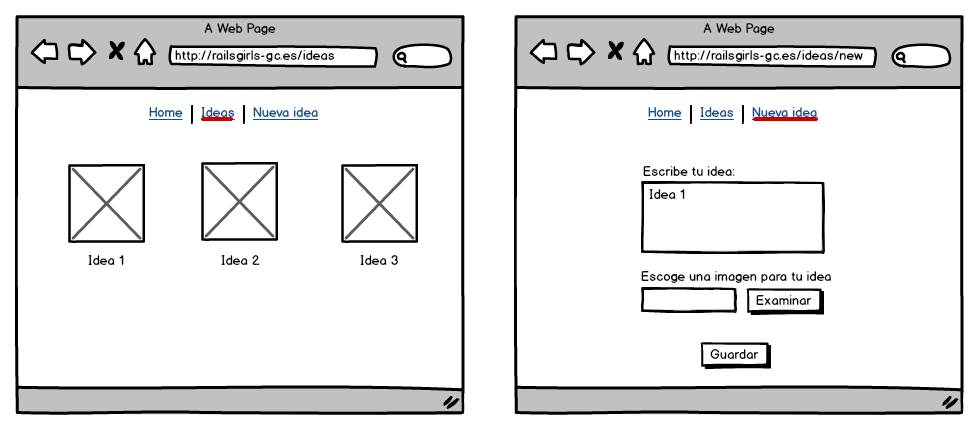
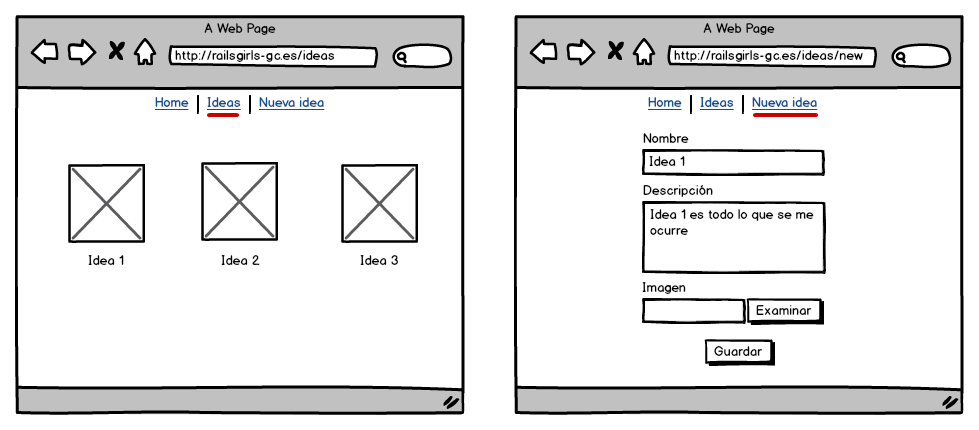
Hace ligeras mejoras en las diapositivas

diff --git a/slides/ex_0_1.html b/slides/ex_0_1.html
@@ -47,7 +47,6 @@
     <section class="slide">
       <h2>Bentobox</h2>
       <img src="images/ex_0_1/bentobox.png"/>
-      <!-- Ejemplo venta de entradas. Imagen que lo represente. <img style="float: right" src="images/first_web_server.jpg"/>-->
     </section>
 
     <section class="slide">
@@ -59,14 +58,17 @@
         <li><h3>4. HTML</h3></li>
         <li><h3>5. MongoDB</h3></li>
       </ul>
-      <ul style="float: left; margin-left: 33%; list-style: none;">
+      <ul style="float: left; margin-left: 15%; list-style: none;">
         <li><h3>6. Apache</h3></li>
         <li><h3>7. CSS</h3></li>
         <li><h3>8. Django</h3></li>
         <li><h3>9. MySQL</h3></li>
         <li><h3>10. Nginx</h3></li>
       </ul>
-      <p style="float: right; margin-left: 66%;">¡¡ 5 minutos !!</p>
+      <div>
+        <img src="images/ex_0_1/bentobox_food.png"/>
+        <p style="float: right;">¡¡ 5 minutos !!</p>
+      </div>
     </section>
 
     <section class="slide">
@@ -117,13 +119,13 @@
       <h2>¿Qué necesitamos para empezar?</h2>
       <img style="float: right" src="images/ex_0_1/laptop.png"/>
       <h3>Ordenador</h3>
-      <p>Con el entorno ya instalado. En este caso, la máquina virtual.</p>
+      <p>Con el entorno ya instalado, en este caso, la máquina virtual.</p>
       <img style="float: right" src="images/ex_0_1/sublimetext.jpg"/>
       <h3>Editor de Texto</h3>
-      <p>Sublime Text, Vim, Emacs y Gedit son ejemplos de editores de texto que se pueden usar para escribir código y editar archivos.</p>
+      <p>Sublime Text, Vim, Emacs y Gedit son ejemplos de editores de texto que se pueden usar para escribir código y editar ficheros.</p>
       <img style="float: right" src="images/ex_0_1/terminal.png"/>
       <h3>Terminal</h3>
-      <p>Es el lugar donde se inicia el servidor de Rails y se ejecutan los comandos.</p>
+      <p>Donde se inicia el servidor de Rails y se ejecutan los comandos.</p>
       <img style="float: right" src="images/ex_0_1/browser.jpg"/>
       <h3>Navegador web</h3>
       <p>(Firefox, Safari, Chrome) para vizualizar la aplicación.</p>
@@ -131,88 +133,139 @@
 
     <section class="slide">
       <h2>Aplicación «Ideas»</h2>
-      <p>Empezaremos por algo fácil e iremos aumentando la complejidad.</p>
-      <p>Aplicación donde podamos anotar nuestras ideas y asociarles imágenes.</p>
-      <p>Idea: nombre, descripción e imagen.</p>
-      <h3>Mockup</h3>
-      <img src="images/ex_0_1/mockup.png"/>
+      <ul>
+        <li>Empezaremos por algo fácil e iremos aumentando la complejidad.</li>
+        <li>Aplicación donde podamos anotar nuestras ideas y asociarles imágenes.</li>
+        <li>Una «idea» se compone de los campos «nombre», «descripción» e «imagen»:
+          <ul>
+            <li>name: string</li><li>description:text</li><li>picture: string</li>
+          </ul>
+        </li>
+        <li>Mockups: balsamiq.com, gomockingbird.com
+          <img src="images/ex_0_1/mockup.png"/>
+        </li>
+      </ul>
     </section>
 
     <section class="slide">
-      <h2>Creamos nuestro primer proyecto Rails</h2>
+      <h2>Crear una aplicación Rails</h2>
+      <p>Lo primero que tenemos que hacer es crear una nueva aplicación</p>
       <ol>
         <li>
-          <p>Abrimos el terminal y ejecutamos lo siguiente:</p>
+          <p>Abrimos el terminal y creamos un directorio para colocar nuestras aplicaciones:</p>
           <textarea id="code" name="code" class="code" mode="ruby" style="display: none;">
             mkdir projects 
             cd projects
           </textarea>
         </li>
         <li>
-          <p>Creamos el proyecto «railsgirls»</p>
+          <p>Creamos la aplicación con el nombre «railsgirls»</p>
           <textarea id="code" name="code" class="code" mode="ruby" style="display: none;">
             rails new railsgirls
-          </textarea>
-          <br/>
-          <p>Esto es lo que ocurre:</p>
-          <textarea id="code" name="code" class="code" mode="ruby" style="display: none; font-size: 10pt;">
-            create  README.rdoc
-            create  Rakefile
-            create  config.ru
-            create  .gitignore
-            create  Gemfile
-            create  app
-            create  app/assets/javascripts/application.js
-            create  app/assets/stylesheets/application.css
-            create  app/controllers/application_controller.rb
-            create  app/helpers/application_helper.rb
-            create  app/views/layouts/application.html.erb
-                  ...
-            create  config
-            create  config/routes.rb
-            create  config/application.rb
-            create  config/environment.rb
-                  ...
-            create  config/initializers
-                  ...
-            create  config/locales
-                  ...
-            create  config/database.yml
-            create  db
-            create  db/seeds.rb
-            create  lib
-                  ...
-            create  log
-                  ...
-            create  public
-                  ...
-            create  test/fixtures
-                  ...
-            create  vendor/assets/javascripts
-                  ...
           </textarea>
         </li>
       </ol>
     </section>
 
     <section class="slide">
+      <h2>Estructura de directorios de Rails</h2>
+      <p>Esto es lo que ocurre:</p>
+      <pre style="font-size: 10pt; color: #090">
+        create  README.rdoc
+        create  Rakefile
+        create  config.ru
+        create  .gitignore
+        create  Gemfile
+        create  app
+        create  app/assets/javascripts/application.js
+        create  app/assets/stylesheets/application.css
+        create  app/controllers/application_controller.rb
+        create  app/helpers/application_helper.rb
+        create  app/views/layouts/application.html.erb
+              ...
+        create  config
+        create  config/routes.rb
+        create  config/application.rb
+        create  config/environment.rb
+              ...
+        create  config/initializers
+              ...
+        create  config/locales
+              ...
+        create  config/database.yml
+        create  db
+        create  db/seeds.rb
+        create  lib
+              ...
+        create  log
+              ...
+        create  public
+              ...
+        create  test/fixtures
+              ...
+        create  vendor/assets/javascripts
+              ...
+      </pre>
+    </section>
+
+    <section class="slide">
       <h2>Arrancamos el servidor en local</h2>
       <ol>
         <li>
-          <p>Ejecutamos el servidor en local (nuestro ordenador):</p>
+          <p>Entramos al directorio:</p>
           <textarea id="code" name="code" class="code" mode="ruby" style="display: none;">
             cd railsgirls
-            rails server
           </textarea>
         </li>
         <li>
-          <p>Abrimos http://localhost:3000 en el navegador. Si vemos la página "Welcome aboard", todo ha ido bien.</p>
+          <p>Ejecutamos el servidor en local (nuestro ordenador):</p>
+          <textarea id="code" name="code" class="code" mode="ruby" style="display: none;">
+            rails server # rails s
+          </textarea>
+          <pre style="font-size: 10pt; color: #090">
+            $ cd railsgirls
+            $ bin/rails server
+            => Booting WEBrick
+            => Rails 4.2.0 application starting in development on http://localhost:3000
+            => Call with -d to detach
+            => Ctrl-C to shutdown server
+            [2013-08-07 02:00:01] INFO  WEBrick 1.3.1
+            [2013-08-07 02:00:01] INFO  ruby 2.0.0 (2013-06-27) [x86_64-darwin11.2.0]
+            [2013-08-07 02:00:01] INFO  WEBrick::HTTPServer#start: pid=69680 port=3000
+          </pre>
+        </li>
+      </ol>
+      <p>Este simple comando lanza un pequelo servidor llamado WEBrick</p>
+      <p>Nuestro ordenador hace las veces tanto de cliente como de servidor</p>
+    </section>
+
+    <section class="slide">
+      <h2>Arrancamos el servidor en local</h2>
+      <ol>
+        <li>Vamos al navegador</li>
+        <li>
+          <p>Abrimos http://localhost:3000</p>
+          <p>Si vemos la página "Welcome aboard", todo ha ido bien.</p>
           <img src="images/ex_0_1/welcome.png"/>
         </li>
         <li>
           <p>Pulsamos CTRL-C en la terminal para salir del servidor.</p>
         </li>
       </ol>
+    </section>
+
+    <section class="slide">
+      <h2>Comandos de Rails</h2>
+      <ul>
+        <li>rails new app_name</li>
+        <li>rails server</li>
+        <li>rails console</li>
+        <li>rails generate</li>
+        <li>rails dbconsole</li>
+        <li>rails destroy</li>
+        <li>rails runner</li>
+        <li>rake</li>
+      </ul>
     </section>
 
     <section class="slide">
